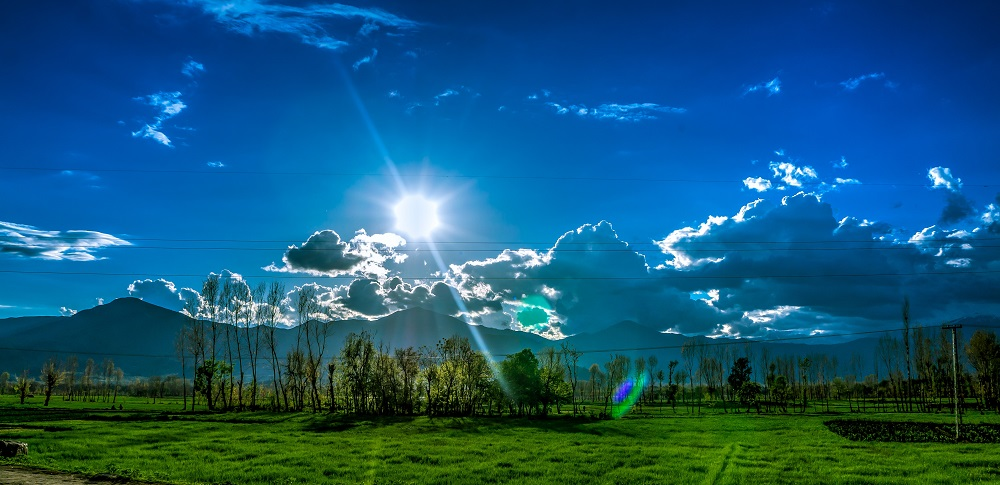
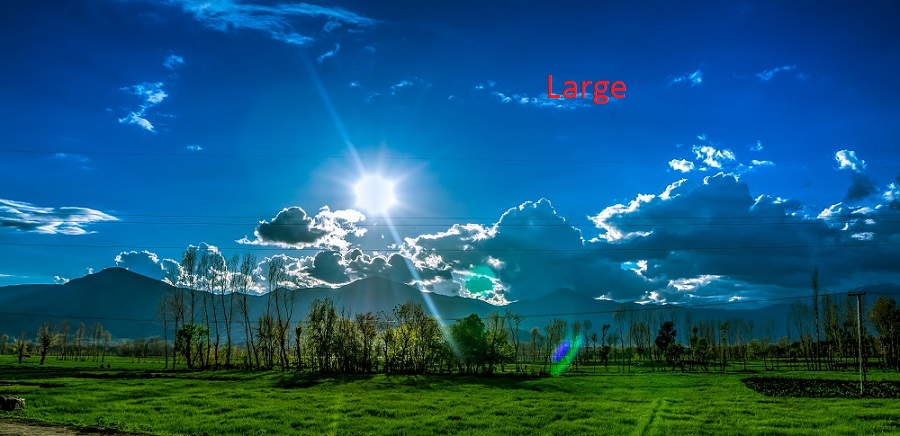
srcset added

Changed region(s): [[0.5911, 0.1789, 0.7156, 0.2385], [0.1867, 0.6261, 0.2178, 0.656]]

diff --git a/assignments/lesson6/franklin-6.html b/assignments/lesson6/franklin-6.html
@@ -37,7 +37,7 @@
             </nav>
     
         <main>
-            <img src="images/franklin-original900px.jpg" alt="blue sunny sky with mountains, clouds, and green grass">
+            <img src="images/franklinheader_small.jpg" srcset="images/franklinheader_small.jpg 300w, images/franklinheader_medium.jpg 600w, images/franklinheader.jpg 900w" alt="sunny blue sky with puffy clounds and green grass">
             <section class="weather-summary">
                 <h2>Weather Summary</h2>
                 <div class="current">

diff --git a/assignments/lesson6/styles/large-6.css b/assignments/lesson6/styles/large-6.css
@@ -1,10 +1,10 @@
-@media only screen and (max-width: 64em ) {
+@media only screen and (max-width: 900px) {
     
     .second{
         display: none;
     }
     
-    header, nav, main, footer, table { 
+    header, nav, main, footer { 
       max-width: 75%;
       margin: auto;
     }

diff --git a/assignments/lesson6/styles/medium-6.css b/assignments/lesson6/styles/medium-6.css
@@ -1,4 +1,4 @@
-@media only screen and (max-width: 37.5em) {
+@media only screen and (max-width: 600px) {
 
     /* Only CSS write declarations that need to be changed. Do not duplicated declarations that are already established in the main.css */
     
